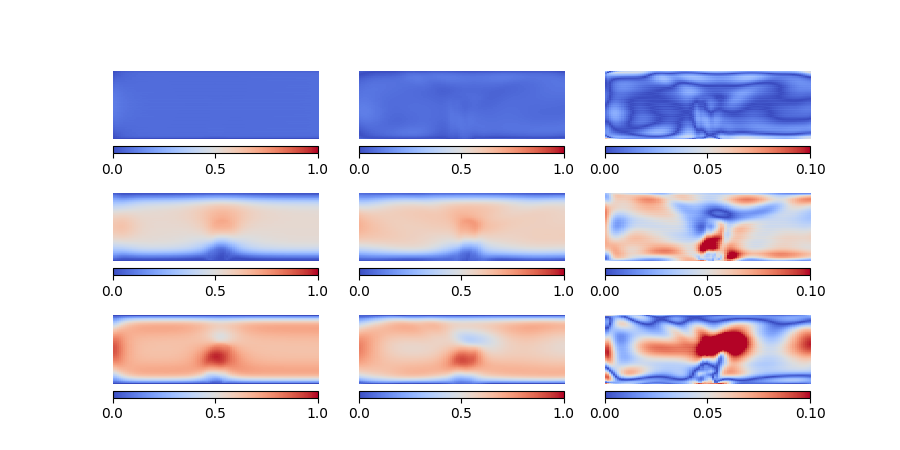
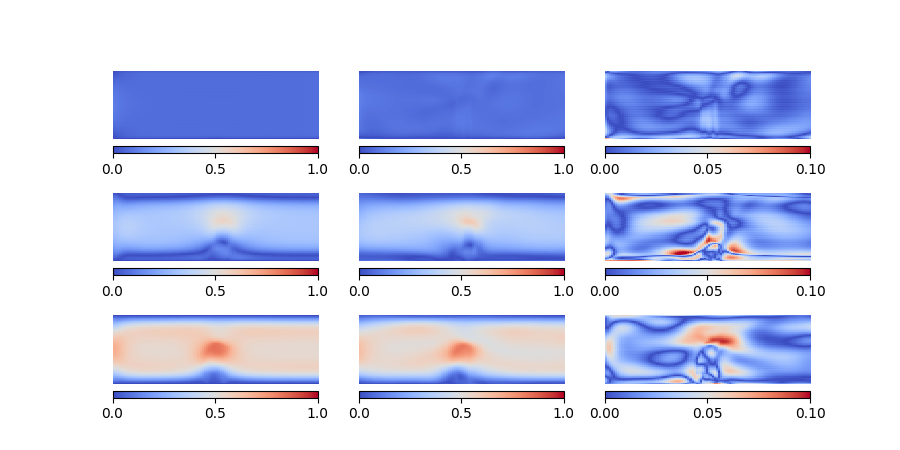
.

Changed region(s): [[0.1244, 0.6844, 0.9022, 0.8711], [0.1244, 0.4044, 0.9022, 0.5911], [0.6533, 0.1556, 0.9022, 0.3111]]

diff --git a/Thrombus/Plot/lmd_num/get_error_fig_12_a.py b/Thrombus/Plot/lmd_num/get_error_fig_12_a.py
@@ -80,19 +80,18 @@ def main():
     ## parameters
     device = torch.device(f"cuda:{0}" if torch.cuda.is_available() else "cpu")
     print(device, flush=True)
-    model_path = '../Inv_L_1_num/test_12/CheckPts/model_chkpts.pt'
+    model_path = '../Inv_L_1_num/test_8/CheckPts/model_chkpts.pt'
 
     file_start = 0
     file_end = 20
     dt = 0.06
-    t_gap = 6
+    t_gap = 7
 
     num_x1 = 100
     num_x2 = 100
     num_t = file_end-file_start
 
     t = np.linspace(0.02+dt*file_start, 0.02+dt*(file_end-1), num=num_t)
-    print(t)
 
     x_min, x_max = 0, 6
     y_min, y_max = 0, 2
@@ -115,7 +114,7 @@ def main():
     ## geometry
     x1 = np.linspace(x_min, x_max, num=num_x1)
     x2 = np.linspace(y_min, y_max, num=num_x2)
-    t = np.linspace(0.02+dt*file_start, 0.02+dt*(file_end-1), num=num_t+1)
+    t = np.linspace(0.02+dt*file_start, 0.02+dt*(file_end-1), num=num_t)
 
     x1_grid, x2_grid = np.meshgrid(x1, x2)
     x_2d = np.concatenate((x1_grid.flatten()[:,None], x2_grid.flatten()[:,None]), axis=1)
@@ -126,10 +125,10 @@ def main():
     optimizer = torch.optim.Adam(model.parameters(), lr = 0.001)
 
     ## loading model/optimizer state
-    model_path = ['../../Inv_L_1_num/test_1/CheckPts/model_chkpts.pt', 
-    '../../Inv_L_1_num/test_2/CheckPts/model_chkpts.pt',
-    '../../Inv_L_1_num/test_3/CheckPts/model_chkpts.pt', 
-    '../../Inv_L_1_num/test_4/CheckPts/model_chkpts.pt']
+    model_path = ['../../Inv_L_1_num/test_9/CheckPts/model_chkpts.pt', 
+    '../../Inv_L_1_num/test_10/CheckPts/model_chkpts.pt',
+    '../../Inv_L_1_num/test_11/CheckPts/model_chkpts.pt', 
+    '../../Inv_L_1_num/test_12/CheckPts/model_chkpts.pt']
 
     Predictions = np.zeros((4, 5, num_t, num_x1, num_x2))
     for k in range (0, 4):
@@ -150,7 +149,7 @@ def main():
     phi_ref = np.zeros((num_t, num_x1, num_x2))
     vel_inf = np.zeros((num_t, num_x1, num_x2))
     vel_ref = np.zeros((num_t, num_x1, num_x2))
-    for k in range(3, 4):
+    for k in range(0, 4):
         for i in range(0, num_t):
             phi_inf[i, :, :] = Predictions[k, 3, i, :, :]
             phi_ref[i, :, :] = y_data[3, i, :, :]
@@ -160,67 +159,67 @@ def main():
         # l2_error = get_relative_l2_error(vel_inf, vel_ref)
         # print(f'mean relative l2 error (vel): {l2_error}')
         print(f'{k}')
-        l2_error = get_relative_l2_error(vel_inf, vel_ref)
-        print(f'mean relative l2 error (vel): {l2_error}')
+        # l2_error = get_relative_l2_error(vel_inf, vel_ref)
+        # print(f'mean relative l2 error (vel): {l2_error}')
         l2_error = get_relative_l2_error(vel_inf, vel_ref)
         print(f'mean relative l2 error (vel) full time: {l2_error.mean()}')
         l2_error = get_relative_l2_error(vel_inf, vel_ref)
         print(f'mean relative l2 error (vel) partial time: {l2_error[:10].mean()}')
 
-        l2_error = get_relative_l2_error(phi_inf, phi_ref)
-        print(f'mean relative l2 error (phi): {l2_error}')
+        # l2_error = get_relative_l2_error(phi_inf, phi_ref)
+        # print(f'mean relative l2 error (phi): {l2_error}')
         l2_error = get_relative_l2_error(phi_inf, phi_ref)
         print(f'mean relative l2 error (phi) full time: {l2_error.mean()}')
         l2_error = get_relative_l2_error(phi_inf, phi_ref)
         print(f'mean relative l2 error (phi) partial time: {l2_error[:10].mean()}')
 
         ## plotting velocity
-        vel_range = np.linspace(0, 1.0, 3)[:,None]
-        vel_error = np.linspace(0, 0.1, 3)[:,None]
-        fig = plt.figure(constrained_layout=False, figsize=(9, 4.5))
-        gs = fig.add_gridspec(3, 1)
+        # vel_range = np.linspace(0, 1.0, 3)[:,None]
+        # vel_error = np.linspace(0, 0.1, 3)[:,None]
+        # fig = plt.figure(constrained_layout=False, figsize=(9, 4.5))
+        # gs = fig.add_gridspec(3, 1)
 
-        for i in range (0, 3):
-            _gs = gs[i].subgridspec(1, 3)
+        # for i in range (0, 3):
+        #     _gs = gs[i].subgridspec(1, 3)
 
-            _ax = fig.add_subplot(_gs[0])
-            _ax.axis('off') 
-            _h = _ax.imshow(vel_ref[t_gap*i, :, :], interpolation='nearest', cmap='coolwarm', origin='lower', aspect=asp_ratio)
-            _h.set_clim(vmin=0, vmax=1.0)
-            axins = inset_axes(_ax,
-                        width="100%",
-                        height="10%",
-                        loc='lower center',
-                        borderpad=-1,
-                        )
-            fig.colorbar(_h, ax=_ax, ticks=vel_range, cax = axins, orientation='horizontal')
+        #     _ax = fig.add_subplot(_gs[0])
+        #     _ax.axis('off') 
+        #     _h = _ax.imshow(vel_ref[t_gap*i, :, :], interpolation='nearest', cmap='coolwarm', origin='lower', aspect=asp_ratio)
+        #     _h.set_clim(vmin=0, vmax=1.0)
+        #     axins = inset_axes(_ax,
+        #                 width="100%",
+        #                 height="10%",
+        #                 loc='lower center',
+        #                 borderpad=-1,
+        #                 )
+        #     fig.colorbar(_h, ax=_ax, ticks=vel_range, cax = axins, orientation='horizontal')
 
-            _ax = fig.add_subplot(_gs[1])
-            _ax.axis('off') 
-            _h = _ax.imshow(vel_inf[t_gap*i, :, :], interpolation='nearest', cmap='coolwarm', origin='lower', aspect=asp_ratio)
-            _h.set_clim(vmin=0, vmax=1.0)
-            axins = inset_axes(_ax,
-                        width="100%",
-                        height="10%",
-                        loc='lower center',
-                        borderpad=-1,
-                        )
-            fig.colorbar(_h, ax=_ax, ticks=vel_range, cax = axins, orientation='horizontal')
+        #     _ax = fig.add_subplot(_gs[1])
+        #     _ax.axis('off') 
+        #     _h = _ax.imshow(vel_inf[t_gap*i, :, :], interpolation='nearest', cmap='coolwarm', origin='lower', aspect=asp_ratio)
+        #     _h.set_clim(vmin=0, vmax=1.0)
+        #     axins = inset_axes(_ax,
+        #                 width="100%",
+        #                 height="10%",
+        #                 loc='lower center',
+        #                 borderpad=-1,
+        #                 )
+        #     fig.colorbar(_h, ax=_ax, ticks=vel_range, cax = axins, orientation='horizontal')
 
-            _ax = fig.add_subplot(_gs[2])
-            _ax.axis('off') 
-            _h = _ax.imshow(np.abs(vel_ref[t_gap*i, :, :] - vel_inf[t_gap*i, :, :]), interpolation='nearest', cmap='coolwarm', origin='lower', aspect=asp_ratio)
-            _h.set_clim(vmin=0, vmax=0.1)
-            axins = inset_axes(_ax,
-                        width="100%",
-                        height="10%",
-                        loc='lower center',
-                        borderpad=-1,
-                        )
-            fig.colorbar(_h, ax=_ax, ticks=vel_error, cax = axins, orientation='horizontal')
+        #     _ax = fig.add_subplot(_gs[2])
+        #     _ax.axis('off') 
+        #     _h = _ax.imshow(np.abs(vel_ref[t_gap*i, :, :] - vel_inf[t_gap*i, :, :]), interpolation='nearest', cmap='coolwarm', origin='lower', aspect=asp_ratio)
+        #     _h.set_clim(vmin=0, vmax=0.1)
+        #     axins = inset_axes(_ax,
+        #                 width="100%",
+        #                 height="10%",
+        #                 loc='lower center',
+        #                 borderpad=-1,
+        #                 )
+        #     fig.colorbar(_h, ax=_ax, ticks=vel_error, cax = axins, orientation='horizontal')
 
-        plt.savefig('fig_10_velo.png')
-        plt.close()
+        # plt.savefig('fig_10_velo.png')
+        # plt.close()
 
 if __name__ == '__main__':
     main()

diff --git a/Thrombus/Plot/lmd_num/fig_12.py b/Thrombus/Plot/lmd_num/fig_12.py
@@ -15,23 +15,23 @@ def main():
     case_1_lmd_2_text = ['0.8292', '4.4607', '4.3409', '3.8645'] # phi + v
     case_1_lmd_3_text = ['1.8785', '1.4981', '1.5486', '1.4635'] # phi
 
-    case_1_err_v_1_text = ['0.5549503156233418', '0.18924386414332572', '0.19081566586107032', '0.19355898201024802']
-    case_1_err_v_1_part = [0.3222385644806364, 0.06736448446187007, 0.0568149045244549, 0.06418375019999703]
+    case_1_err_v_1_text = ['0.5684918864962359', '0.014145652170003797', '0.01572135854802598', '0.02621160684646784']
+    case_1_err_v_1_part = [0.30614362118031696, 0.010994302218191759, 0.009654136954058293, 0.01848076806494805]
 
-    case_1_err_phi_1_text = ['0.26071302000725394', '0.02480305501817903', '0.02431983654675567', '0.023939295391819413']
-    case_1_err_phi_1_part = [0.3021003500698175, 0.010947907116636037, 0.012089104168307552, 0.01169651714982296]
+    case_1_err_phi_1_text = ['0.2885261673175247', '0.01686707358268274', '0.012817297699005697', '0.013595372302310876']
+    case_1_err_phi_1_part = [0.31349110259859453, 0.015427493993153107, 0.011441383915495722, 0.0105558451210516]
 
-    case_1_err_v_2_text = ['1.4480560071272341', '0.18142815720224165', '0.2030068741744011', '0.1926480196866232']
-    case_1_err_v_2_part = [1.3460084131168213, 0.051762502570097735, 0.05704092441536024, 0.04940382700503209]
+    case_1_err_v_2_text = ['0.9714725228978958', '0.0305997201060751', '0.024908364899946515', '0.029988923336109547']
+    case_1_err_v_2_part = [0.6222528242620611, 0.01894733766036736, 0.018016970006621523, 0.01777284366931691]
 
-    case_1_err_phi_2_text = ['0.302692426705042', '0.020007003775435232', '0.02518701851379984', '0.019223120856477066']
-    case_1_err_phi_2_part = [0.3551046662444296, 0.008479998875280243, 0.012473679300320235, 0.009766199055815746]
+    case_1_err_phi_2_text = ['0.1851720216766271', '0.005997608008436245', '0.006356640511934336', '0.0076306061898456885']
+    case_1_err_phi_2_part = [0.2207886175015743, 0.005416262470375613, 0.00673990203067343, 0.007403038346134134 ]
 
-    case_1_err_v_3_text = ['2.8038325959031645', '0.7488861268498743', '1.002028754294296', '1.1576151389300382']
-    case_1_err_v_3_part = [2.5031765627642626, 0.5868397855825642, 0.9308011295411381, 1.0120938960800696]
+    case_1_err_v_3_text = ['', '', '', '']
+    case_1_err_v_3_part = [, , , ]
 
-    case_1_err_phi_3_text = ['0.3711127921882995', '0.016732466632928877', '0.014986603558612518', '0.01598686202356819']
-    case_1_err_phi_3_part = [0.5482126471106449, 0.006498067461125888, 0.005223195298955918, 0.007462472026119096]
+    case_1_err_phi_3_text = ['', '', '', '']
+    case_1_err_phi_3_part = [, , , ]
 
     case_2_lmd_1_text = ['5.2863', '11.7115', '10.5803', '10.2298'] # phi + v + psi
     case_2_lmd_2_text = ['5.4885', '5.4431', '4.8335', '5.1053'] # phi + v

diff --git a/Thrombus/Plot/lmd_num/get_error_fig_12_b.py b/Thrombus/Plot/lmd_num/get_error_fig_12_b.py
@@ -120,7 +120,7 @@ def main():
     ## geometry
     x1 = np.linspace(x_min, x_max, num=num_x1)
     x2 = np.linspace(y_min, y_max, num=num_x2)
-    t = np.linspace(0.02+dt*file_start, 0.02+dt*(file_end-1), num=num_t+1)
+    t = np.linspace(0.02+dt*file_start, 0.02+dt*(file_end-1), num=num_t)
 
     x1_grid, x2_grid = np.meshgrid(x1, x2)
     x_2d = np.concatenate((x1_grid.flatten()[:,None], x2_grid.flatten()[:,None]), axis=1)
@@ -131,10 +131,10 @@ def main():
     optimizer = torch.optim.Adam(model.parameters(), lr = 0.001)
 
     ## loading model/optimizer state
-    model_path = ['../Inv_L_2_num/test_9/CheckPts/model_chkpts.pt', 
-    '../Inv_L_2_num/test_10/CheckPts/model_chkpts.pt',
-    '../Inv_L_2_num/test_11/CheckPts/model_chkpts.pt', 
-    '../Inv_L_2_num/test_12/CheckPts/model_chkpts.pt']
+    model_path = ['../Inv_L_2_num/test_1/CheckPts/model_chkpts.pt', 
+    '../Inv_L_2_num/test_2/CheckPts/model_chkpts.pt',
+    '../Inv_L_2_num/test_3/CheckPts/model_chkpts.pt', 
+    '../Inv_L_2_num/test_4/CheckPts/model_chkpts.pt']
 
     Predictions = np.zeros((4, 5, num_t, num_x1, num_x2))
     for k in range (0, 4):

diff --git a/Thrombus/Inv_L_1_num/test_10/ch_ns_inv.py b/Thrombus/Inv_L_1_num/test_10/ch_ns_inv.py
@@ -252,7 +252,7 @@ def main():
     init_path = './InitConds/'
     path_list = ['./Predictions/u/', './Predictions/v/', './Predictions/p/', './Predictions/phi/', './Predictions/w/', './Predictions/psi_1/', './Predictions/psi_2/']
     model_path = 'CheckPts/model_chkpts.pt'
-    restart = 1 # restart = 0: start from beginning, restart = 1: resuming training
+    restart = 0 # restart = 0: start from beginning, restart = 1: resuming training
     check_step = 10000
 
     file_start = 0
@@ -307,7 +307,7 @@ def main():
     ## geometry
     x1 = np.linspace(x_min, x_max, num=num_x1)
     x2 = np.linspace(y_min, y_max, num=num_x2)
-    t = np.linspace(0.02+dt*file_start, 0.02+dt*(file_end-1), num=num_t+1)
+    t = np.linspace(0.02+dt*file_start, 0.02+dt*(file_end-1), num=num_t)
 
     x1_grid, x2_grid = np.meshgrid(x1, x2)
     x_2d = np.concatenate((x1_grid.flatten()[:,None], x2_grid.flatten()[:,None]), axis=1)

diff --git a/Thrombus/Plot/K_vary/get_error_fig_4.py b/Thrombus/Plot/K_vary/get_error_fig_4.py
@@ -117,7 +117,7 @@ def main():
     ## geometry
     x1 = np.linspace(x_min, x_max, num=num_x1)
     x2 = np.linspace(y_min, y_max, num=num_x2)
-    t = np.linspace(0.02+dt*file_start, 0.02+dt*(file_end-1), num=num_t+1)
+    t = np.linspace(0.02+dt*file_start, 0.02+dt*(file_end-1), num=num_t)
 
     x1_grid, x2_grid = np.meshgrid(x1, x2)
     x_2d = np.concatenate((x1_grid.flatten()[:,None], x2_grid.flatten()[:,None]), axis=1)

diff --git a/Thrombus/Plot/lmd_noise/get_error_fig_13.py b/Thrombus/Plot/lmd_noise/get_error_fig_13.py
@@ -112,7 +112,7 @@ def main():
     ## geometry
     x1 = np.linspace(x_min, x_max, num=num_x1)
     x2 = np.linspace(y_min, y_max, num=num_x2)
-    t = np.linspace(0.02+dt*file_start, 0.02+dt*(file_end-1), num=num_t+1)
+    t = np.linspace(0.02+dt*file_start, 0.02+dt*(file_end-1), num=num_t)
 
     x1_grid, x2_grid = np.meshgrid(x1, x2)
     x_2d = np.concatenate((x1_grid.flatten()[:,None], x2_grid.flatten()[:,None]), axis=1)

diff --git a/Thrombus/Plot/lmd_test_7/get_error_fig_13.py b/Thrombus/Plot/lmd_test_7/get_error_fig_13.py
@@ -114,7 +114,7 @@ def main():
     ## geometry
     x1 = np.linspace(x_min, x_max, num=num_x1)
     x2 = np.linspace(y_min, y_max, num=num_x2)
-    t = np.linspace(0.02+dt*file_start, 0.02+dt*(file_end-1), num=num_t+1)
+    t = np.linspace(0.02+dt*file_start, 0.02+dt*(file_end-1), num=num_t)
 
     x1_grid, x2_grid = np.meshgrid(x1, x2)
     x_2d = np.concatenate((x1_grid.flatten()[:,None], x2_grid.flatten()[:,None]), axis=1)

diff --git a/Thrombus/Plot/lmd_test_9/get_error_fig_13.py b/Thrombus/Plot/lmd_test_9/get_error_fig_13.py
@@ -117,7 +117,7 @@ def main():
     ## geometry
     x1 = np.linspace(x_min, x_max, num=num_x1)
     x2 = np.linspace(y_min, y_max, num=num_x2)
-    t = np.linspace(0.02+dt*file_start, 0.02+dt*(file_end-1), num=num_t+1)
+    t = np.linspace(0.02+dt*file_start, 0.02+dt*(file_end-1), num=num_t)
 
     x1_grid, x2_grid = np.meshgrid(x1, x2)
     x_2d = np.concatenate((x1_grid.flatten()[:,None], x2_grid.flatten()[:,None]), axis=1)

diff --git a/Thrombus/Plot/lmd_noise/fig_13.py b/Thrombus/Plot/lmd_noise/fig_13.py
@@ -89,7 +89,7 @@ def main():
     ## geometry
     x1 = np.linspace(x_min, x_max, num=num_x1)
     x2 = np.linspace(y_min, y_max, num=num_x2)
-    t = np.linspace(0.02+dt*file_start, 0.02+dt*(file_end-1), num=num_t+1)
+    t = np.linspace(0.02+dt*file_start, 0.02+dt*(file_end-1), num=num_t)
 
     x1_grid, x2_grid = np.meshgrid(x1, x2)
     x_2d = np.concatenate((x1_grid.flatten()[:,None], x2_grid.flatten()[:,None]), axis=1)

diff --git a/Thrombus/Plot/lmd_test_7/fig_13.py b/Thrombus/Plot/lmd_test_7/fig_13.py
@@ -89,7 +89,7 @@ def main():
     ## geometry
     x1 = np.linspace(x_min, x_max, num=num_x1)
     x2 = np.linspace(y_min, y_max, num=num_x2)
-    t = np.linspace(0.02+dt*file_start, 0.02+dt*(file_end-1), num=num_t+1)
+    t = np.linspace(0.02+dt*file_start, 0.02+dt*(file_end-1), num=num_t)
 
     x1_grid, x2_grid = np.meshgrid(x1, x2)
     x_2d = np.concatenate((x1_grid.flatten()[:,None], x2_grid.flatten()[:,None]), axis=1)

diff --git a/Thrombus/Plot/K_num/get_error.py b/Thrombus/Plot/K_num/get_error.py
@@ -110,7 +110,7 @@ def main():
     ## geometry
     x1 = np.linspace(x_min, x_max, num=num_x1)
     x2 = np.linspace(y_min, y_max, num=num_x2)
-    t = np.linspace(dt*(file_start+1), dt*(file_end+1), num=num_t+1)
+    t = np.linspace(dt*(file_start+1), dt*(file_end+1), num=num_ts)
 
     x1_grid, x2_grid = np.meshgrid(x1, x2)
     x_2d = np.concatenate((x1_grid.flatten()[:,None], x2_grid.flatten()[:,None]), axis=1)

diff --git a/Thrombus/Plot/K_phi/fig_7.py b/Thrombus/Plot/K_phi/fig_7.py
@@ -83,7 +83,7 @@ def main():
     ## geometry
     x1 = np.linspace(x_min, x_max, num=num_x1)
     x2 = np.linspace(y_min, y_max, num=num_x2)
-    t = np.linspace(dt*(file_start+1), dt*(file_end+1), num=num_t+1)
+    t = np.linspace(dt*(file_start+1), dt*(file_end+1), num=num_t)
 
     x1_grid, x2_grid = np.meshgrid(x1, x2)
     x_2d = np.concatenate((x1_grid.flatten()[:,None], x2_grid.flatten()[:,None]), axis=1)
